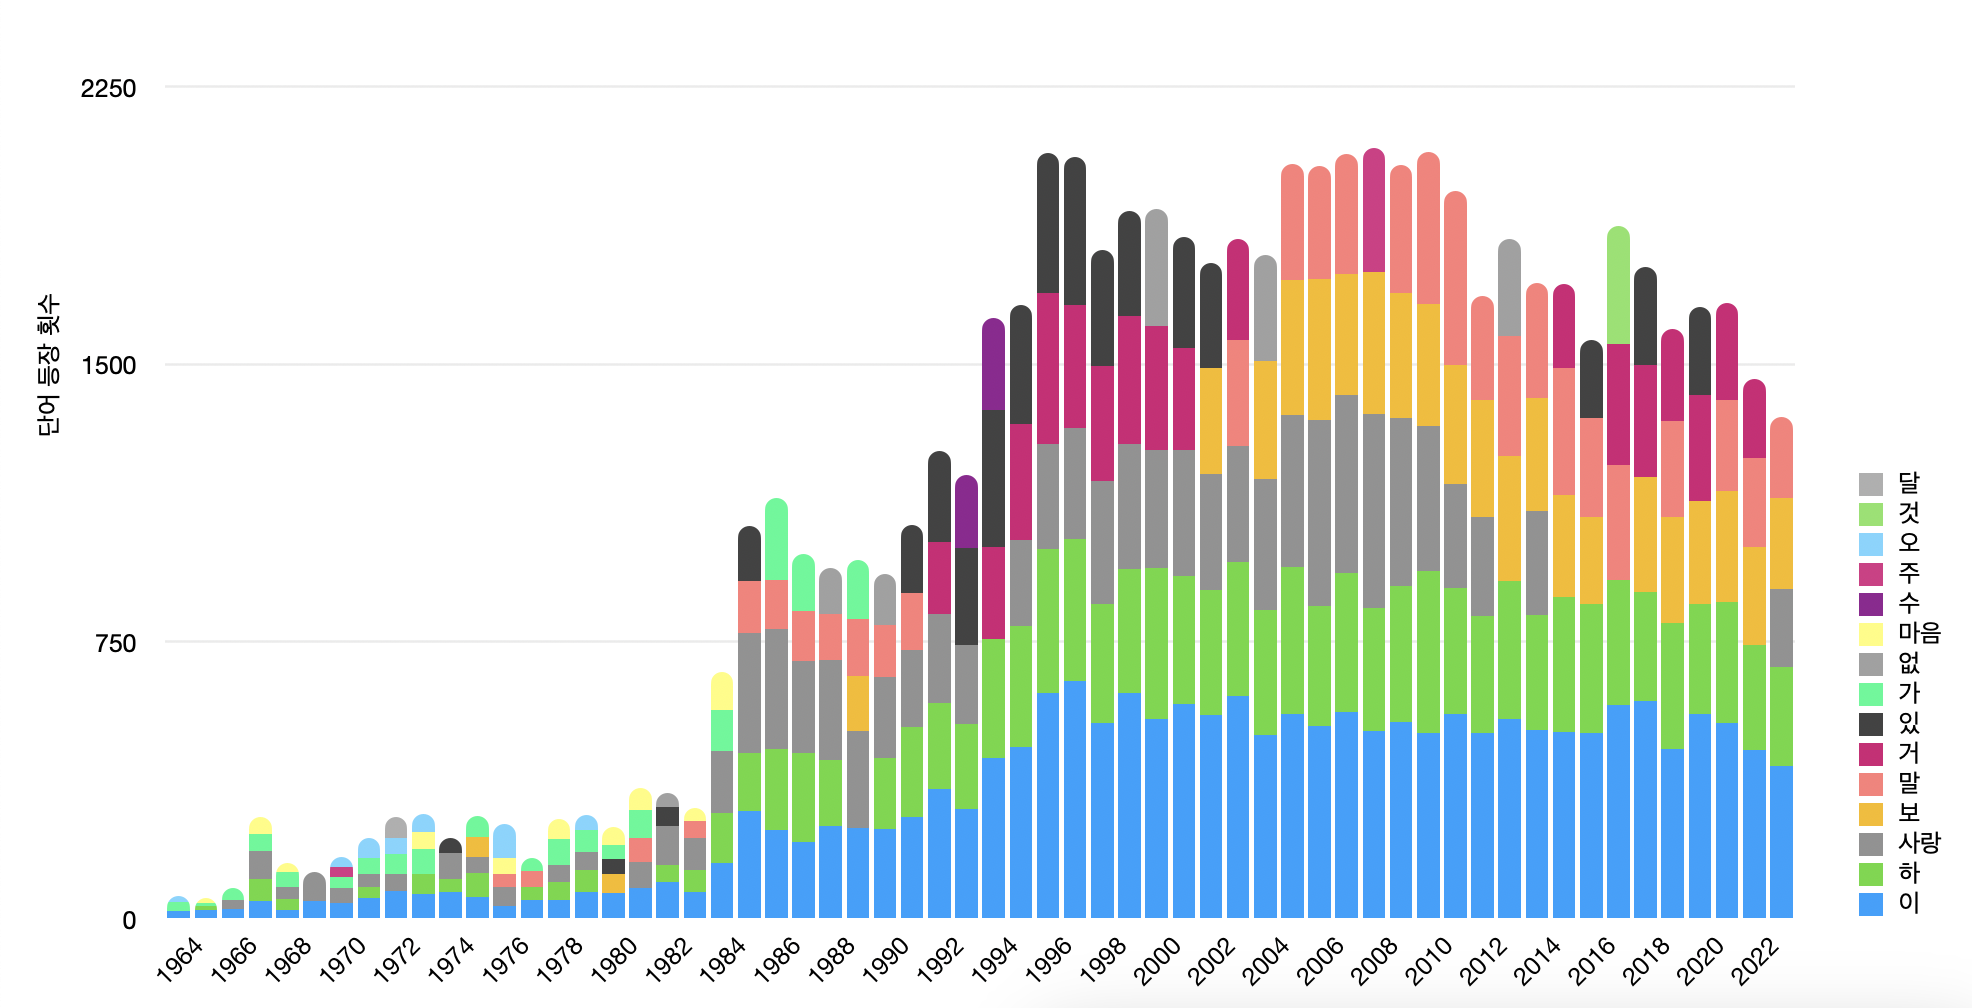
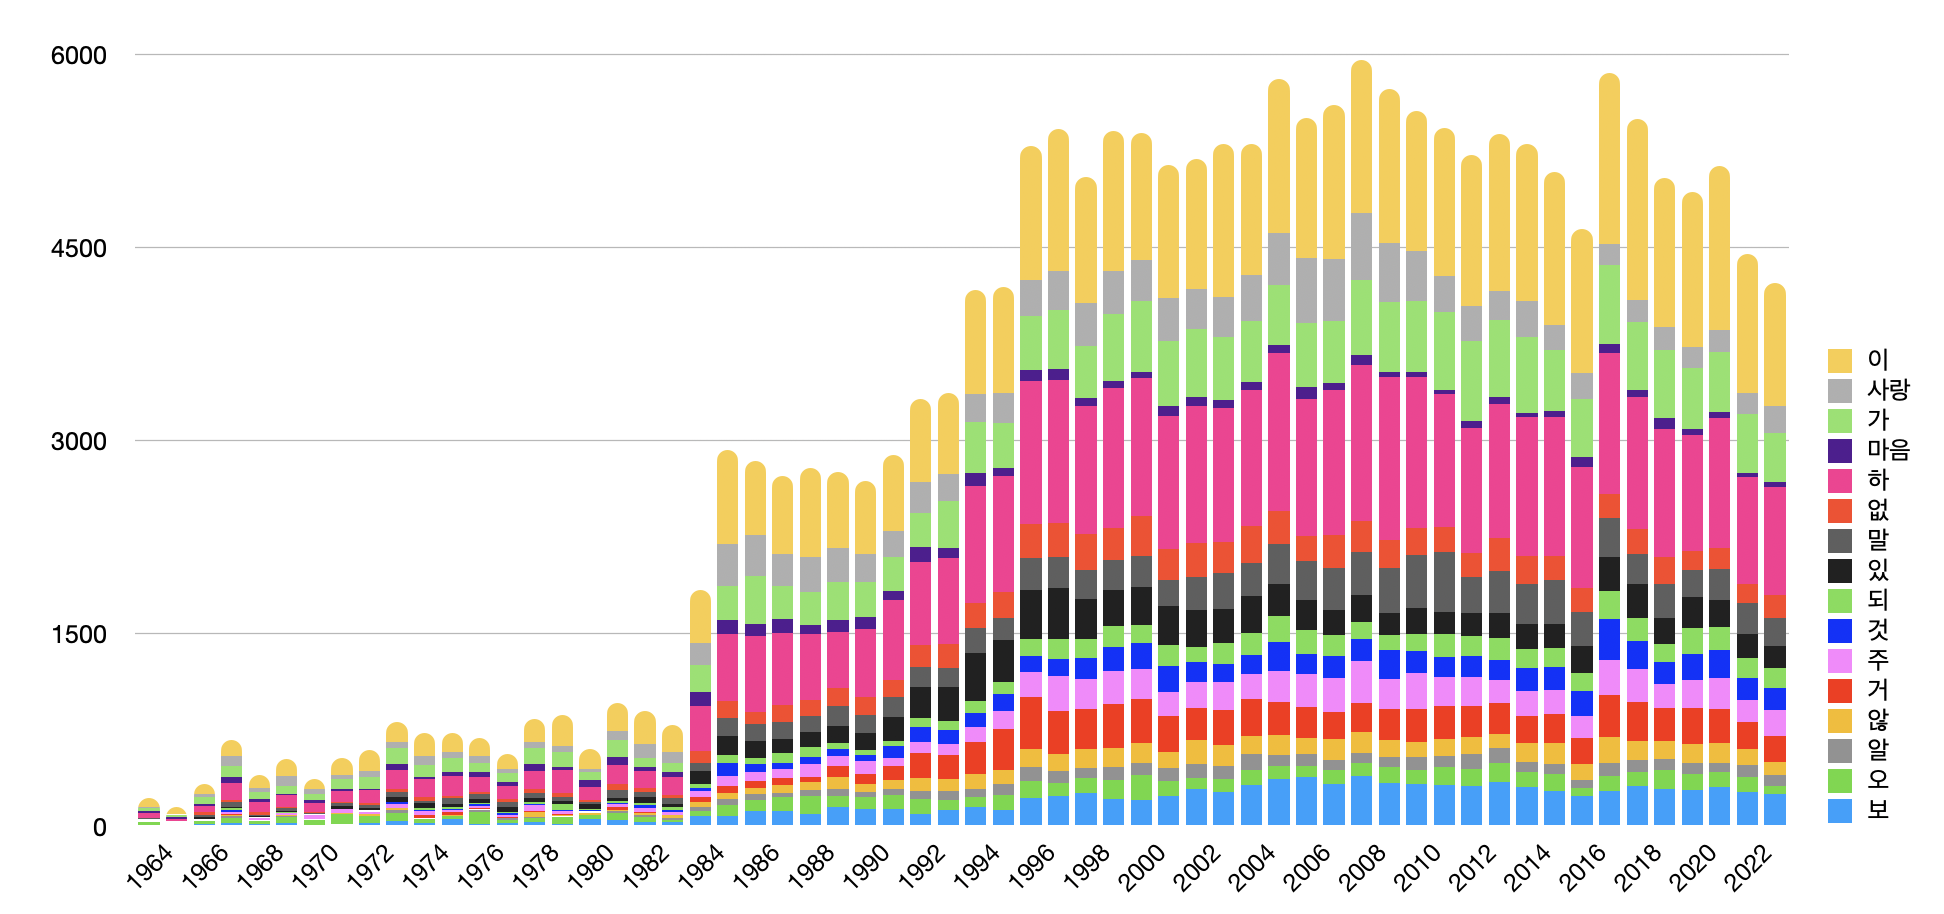
docs: add proportion of words

diff --git a/README.md b/README.md
@@ -20,6 +20,10 @@
 
 ![](./docs/ko_ratio_per_year.png)
 
+## 연도별 가사 분포
+
+![](./docs/kiwi/word_freq_r_per_year.png)
+
 ## 연도별 가사 반복도
 
 가사를 공백 단위로 분리하였을 때, 단 하나의 구절도 2번 이상 반복되지 않는다면 `1.0` 이다.
